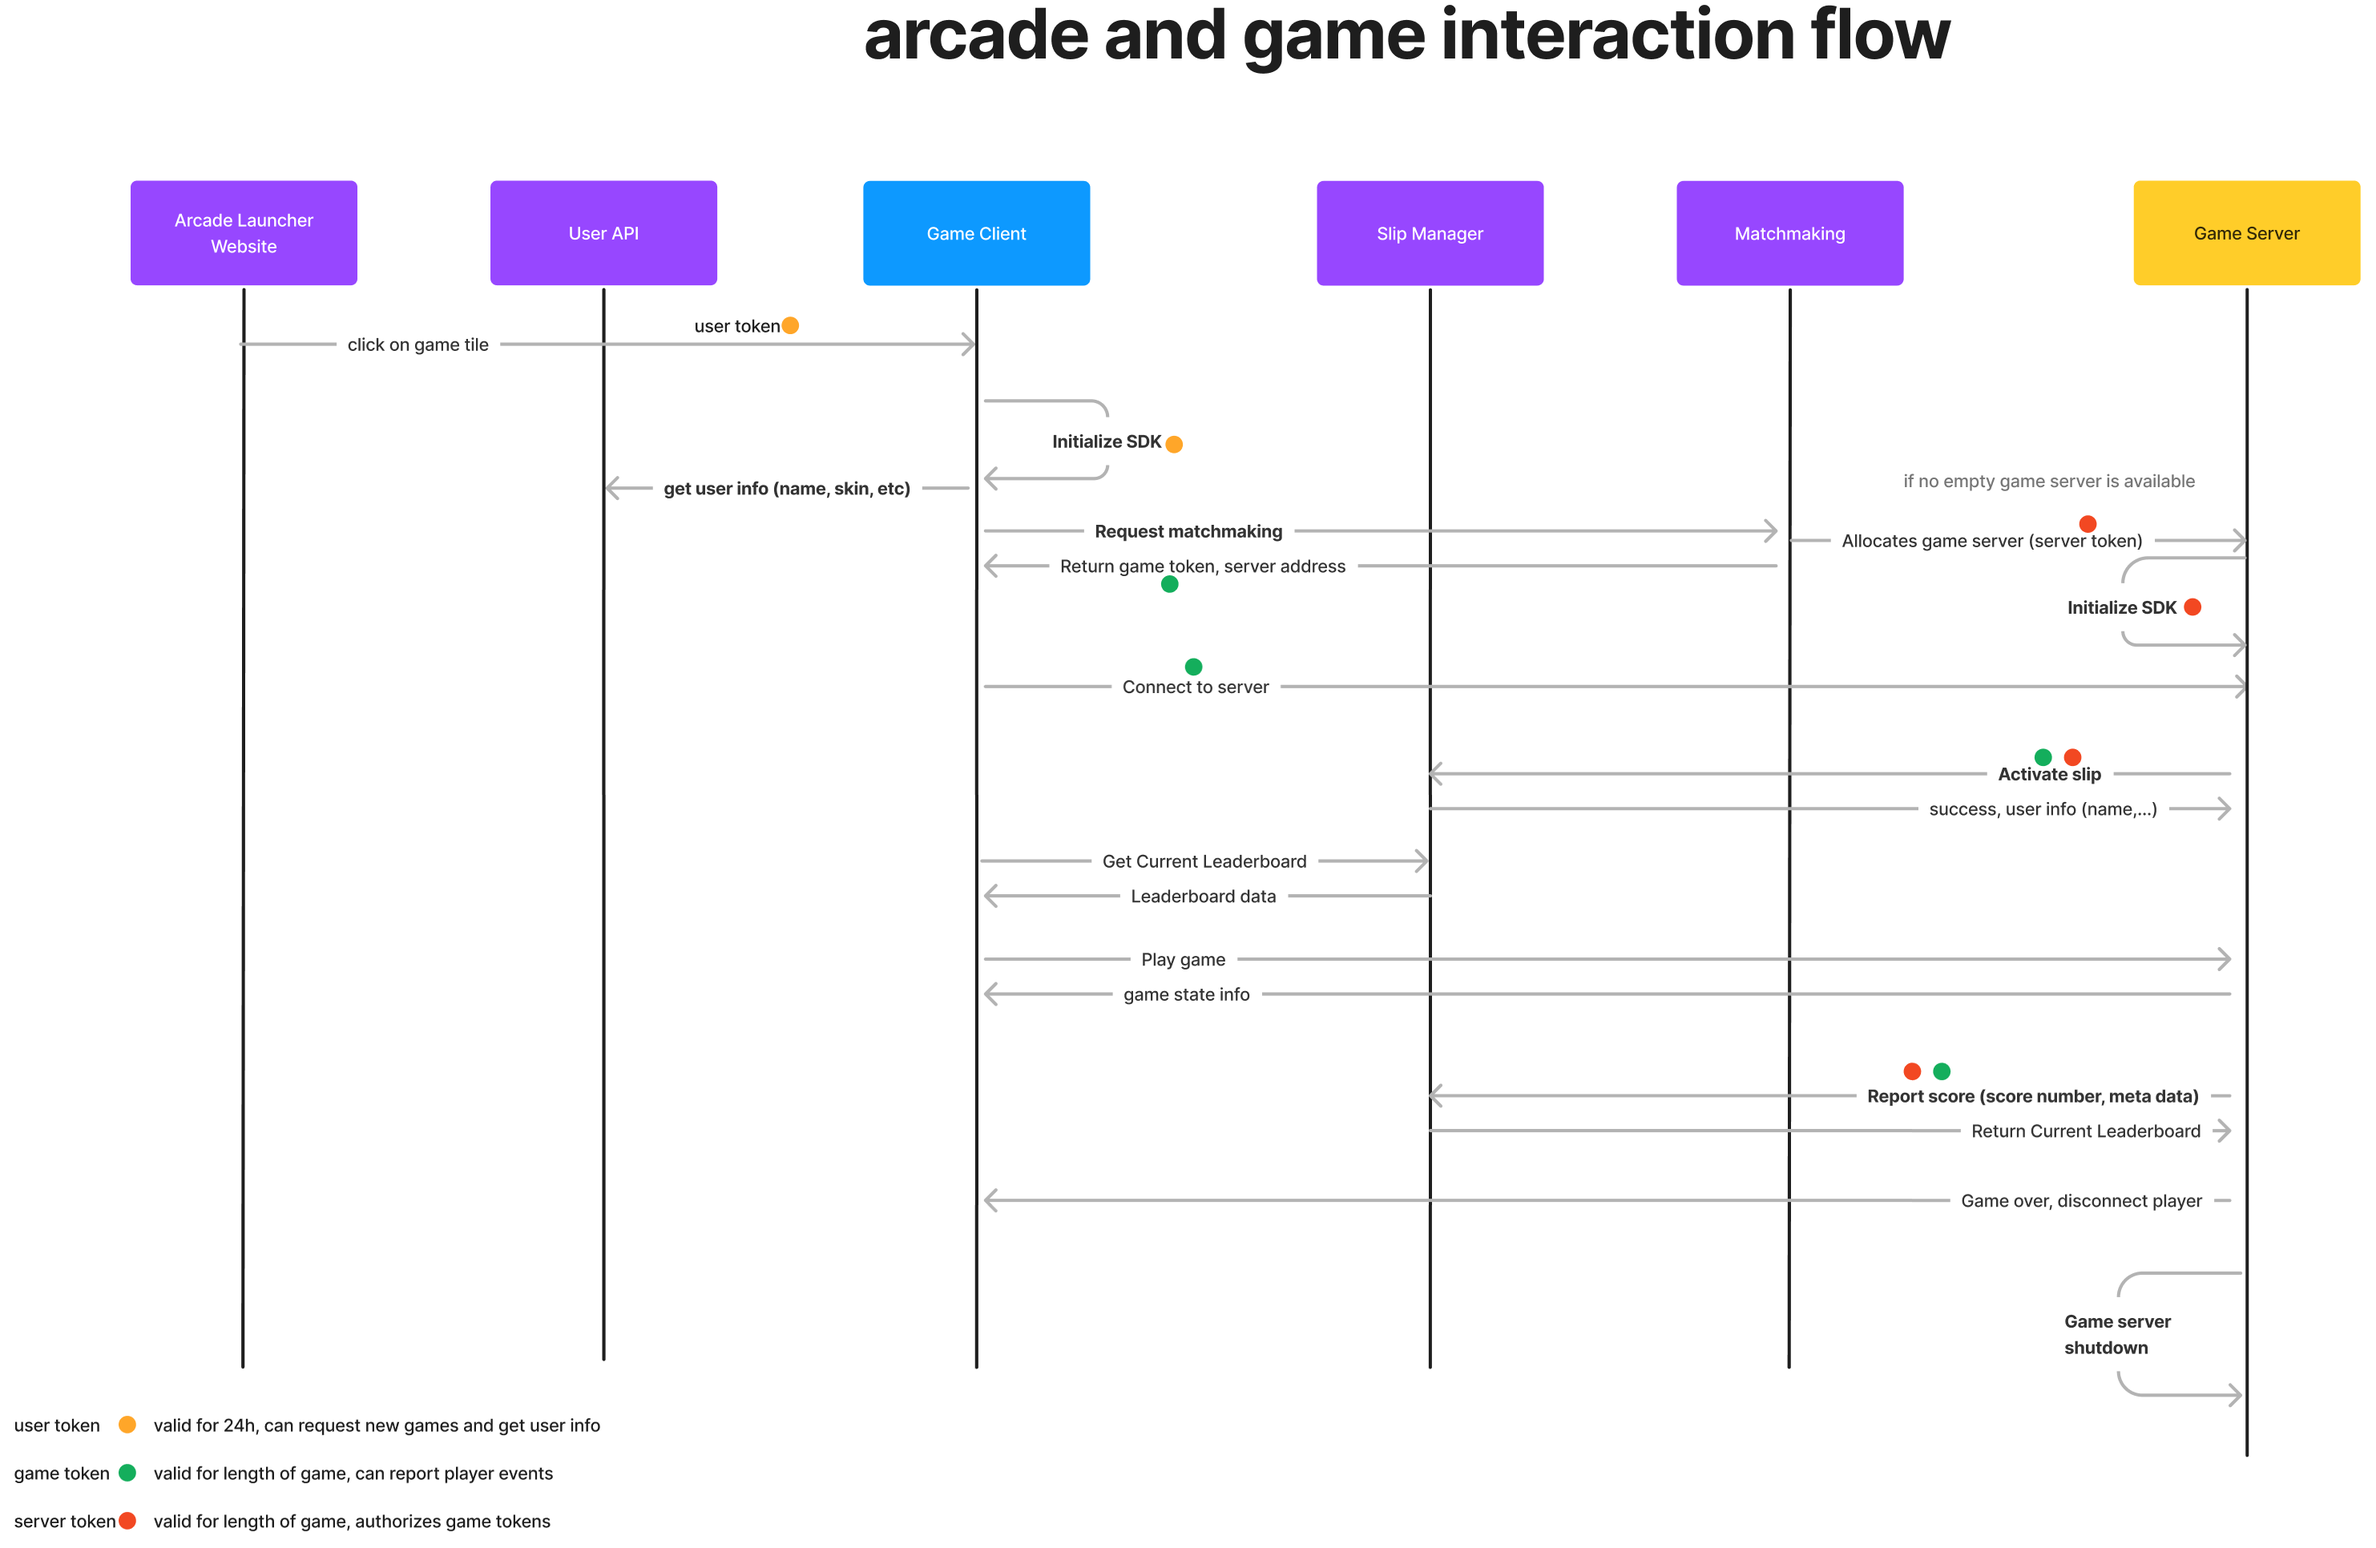
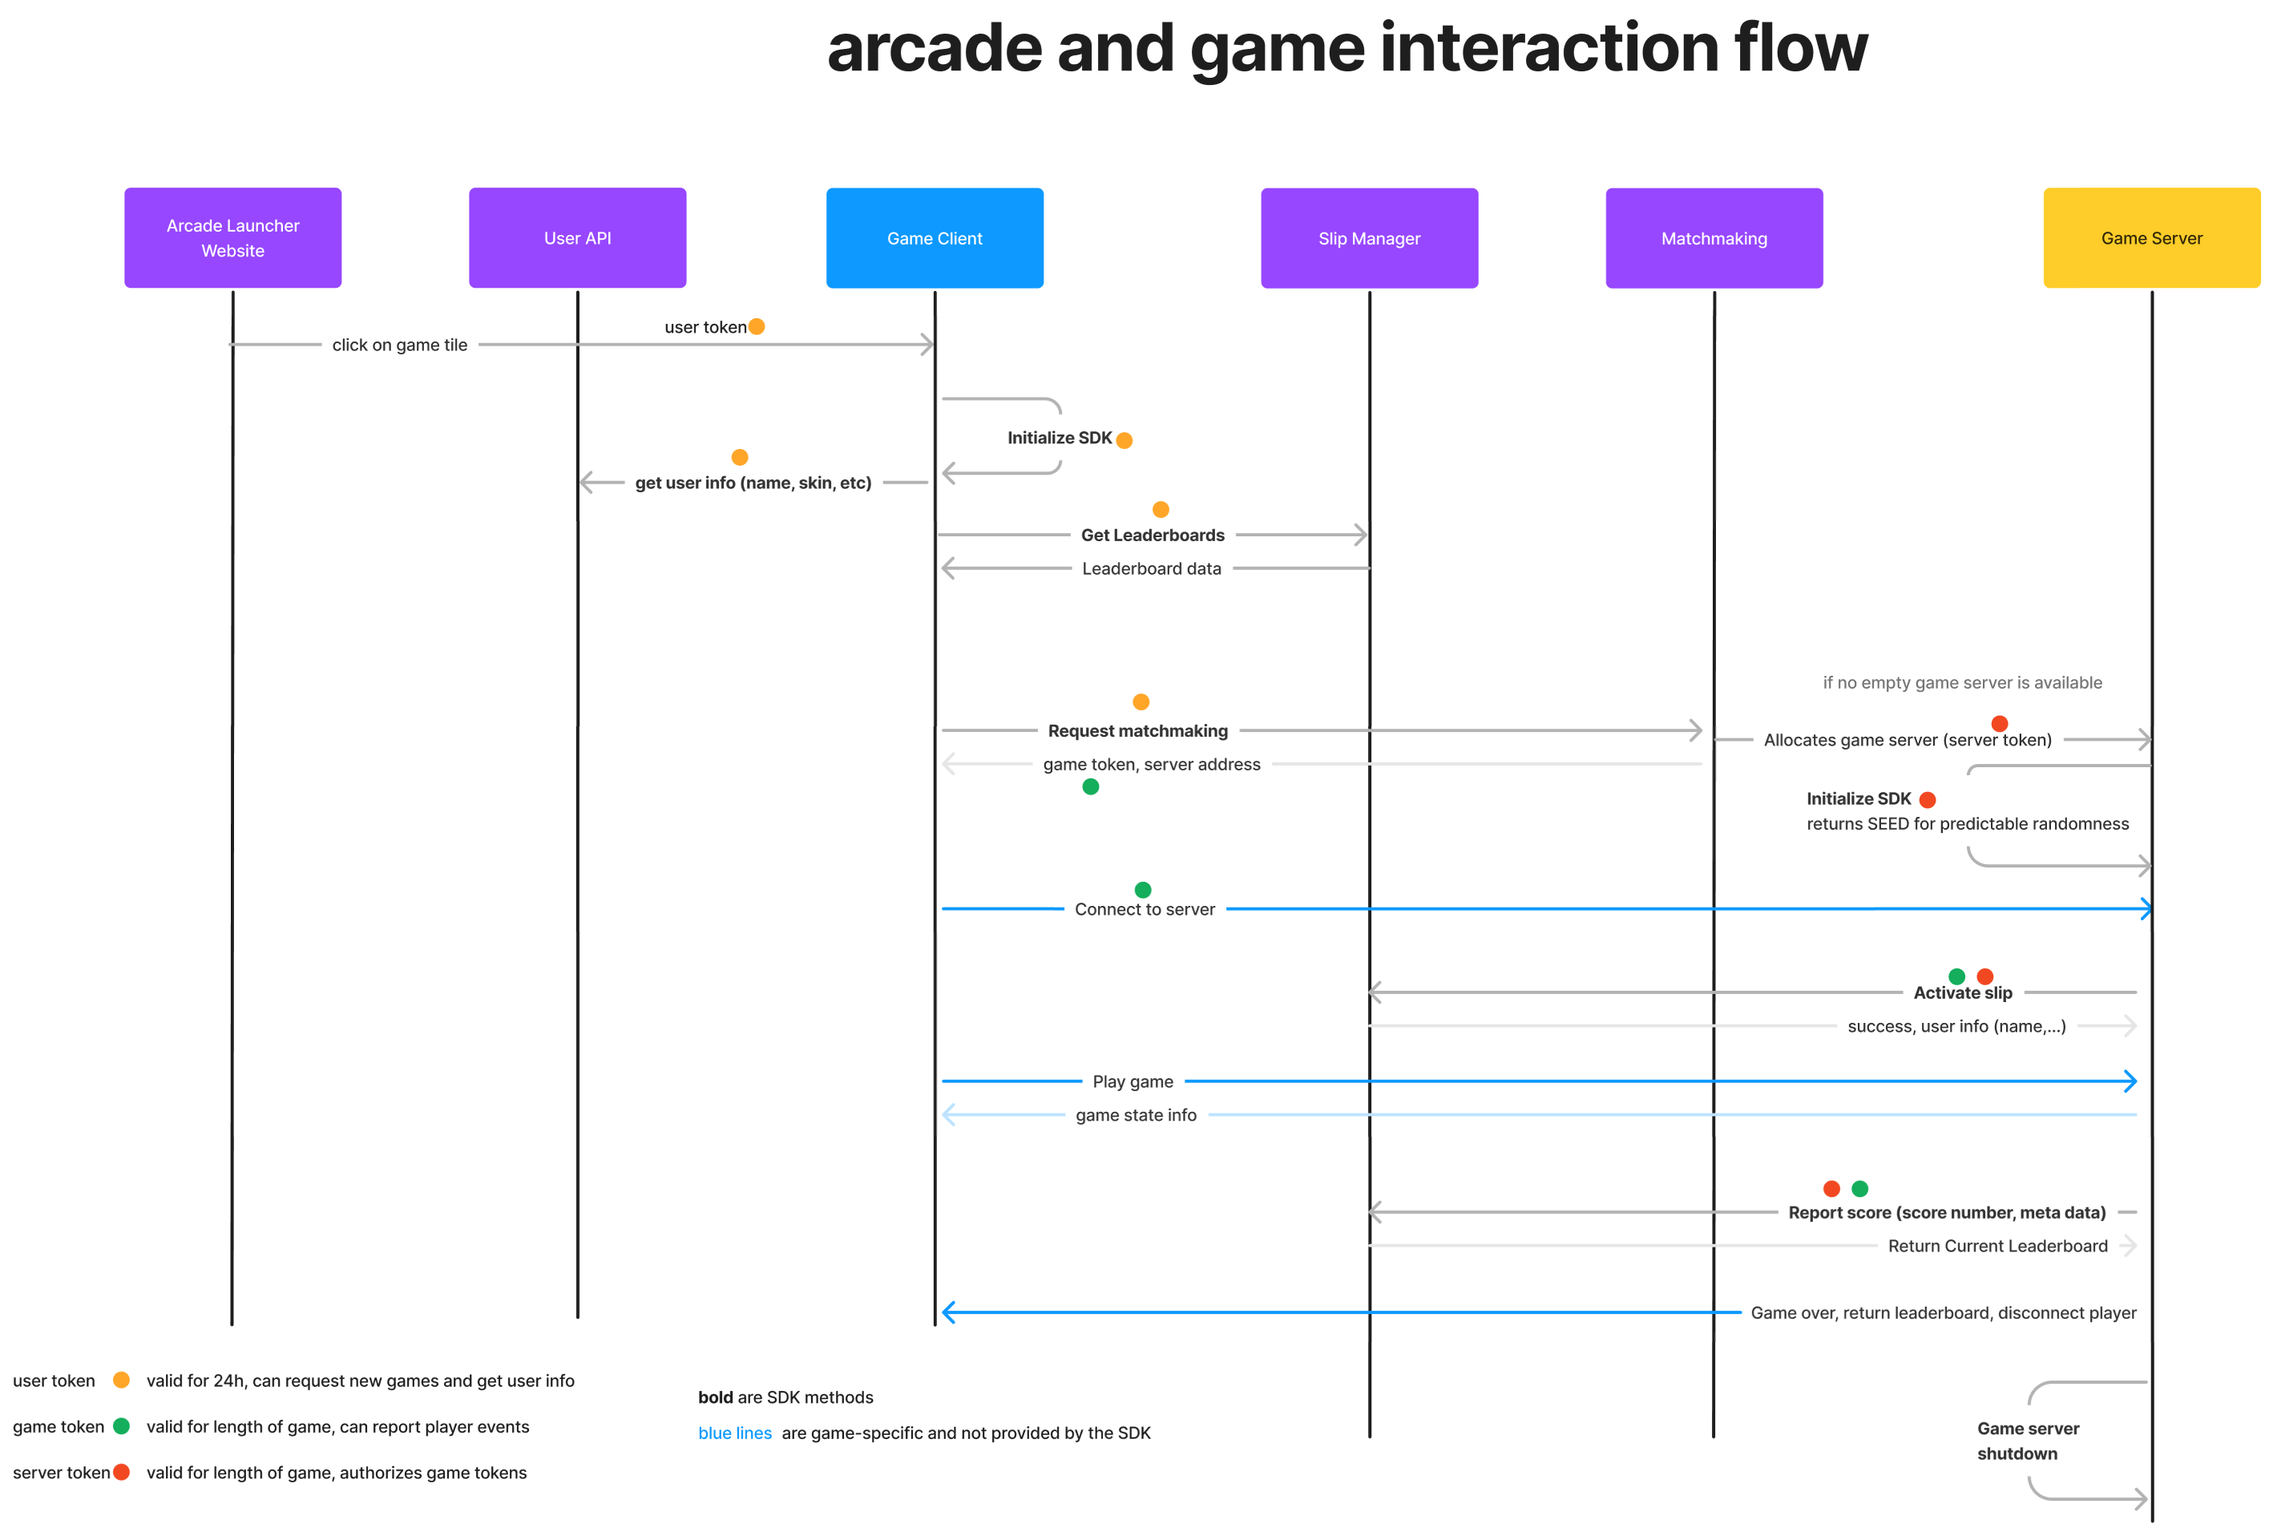
add dummy methods

diff --git a/Runtime/Frontend/UltimateArcadeGameClientAPI.cs b/Runtime/Frontend/UltimateArcadeGameClientAPI.cs
@@ -7,23 +7,59 @@ namespace UltimateArcade.Frontend
 {
     public class UltimateArcadeGameClientAPI
     {
-        public UltimateArcadeGameClientAPI()
+        // baseServerName would be "staging.ultimatearcade.io" or "ultimatearcade.io"
+        // userToken is game specific and depending on hosting method can be provided via different channels
+        public UltimateArcadeGameClientAPI(string userToken, string baseServerName)
         {
-            // TODO, take in 
-            // * server base URL
-            // * auth token (signed JWT)
-            //   * game-id is derived from token 
-
         }
 
-        public Task<Collection<Lobbies>> GetAvailableLobbies()
+        public Task<UserInfo> GetUserInfo()
+        {
+        }
+
+        public Task<Match> MatchmakeLeaderboard(string leaderboardID)
+        {
+        }
+
+        // returns some old (closed), some open and potentially some future leaderboards
+        public Task<List<Leaderboard>> GetLeaderboards()
         {
         }
     }
 
-    public class Lobby
+    public class UserInfo
     {
         public string Name { get; set; }
-        public int Price { get; set; }
+        public string Tokens { get; set; }
+        //TODO game-sepcific data like skin etc
+    }
+
+    public class Match
+    {
+        // opaque token you need to pass to the game server
+        public string GameToken { get; set; }
+        // websocket address to connect to e.g. wss://my-server.ua.io:7123/ws
+        public string ServerAddress { get; set; }
+    }
+
+    public class Leaderboard
+    {
+        public string ID { get; set; }
+        public string Name { get; set; }
+        public int EntryPrice { get; set; }
+        public int TokensToWin { get; set; }
+        public DateTime OpenAt { get; set; }
+        public DateTime CloseAt { get; set; }
+        public List<Entry> Board { get; set; }
+    }
+
+    public class Entry
+    {
+        public string PlayerName { get; set; }
+        // could be the same for multiple players
+        public int Rank { get; set; }
+        public int Score { get; set; }
+        // what they got if the leaderboard is closed
+        public int? TokensWon { get; set; }
     }
 }

diff --git a/Runtime/Server/UltimateArcadeGameServerAPI.cs b/Runtime/Server/UltimateArcadeGameServerAPI.cs
@@ -12,9 +12,14 @@ namespace UltimateArcade.Server
         {
         }
 
-        public Task Init()
+        public Task<ServerData> Init()
         {
-            // get token from environment or pod annotation etc
+            // get token from environment or pod annotation etc and store it in instance
+        }
+
+        // you need to wait for this call to finish before exiting
+        public Task Shutdown()
+        {
         }
 
         public Task<PlayerInfo> ActivateUser(string playerToken)
@@ -24,6 +29,26 @@ namespace UltimateArcade.Server
             // * userID
             // * server info (game, serverid)
         }
+
+        public Task<PlayerInfo> SettleUserWithScore(string playerToken, int score)
+        {
+        }
+    }
+
+    public class Debug
+    {
+        // NOTE: we'll log all SDK interactions, so you don't have to
+        public static void Log(object message)
+        {
+        }
+        public static void Log(object message, Object context)
+        {
+        }
+    }
+
+    public class ServerData
+    {
+        public string RandomSeed { get; set; }
     }
 
     public class PlayerInfo
